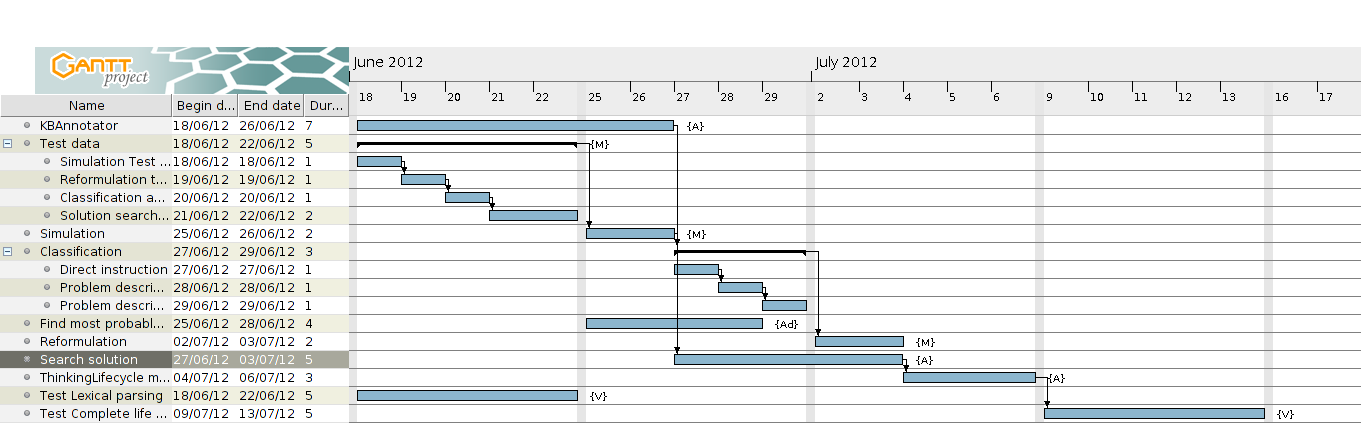
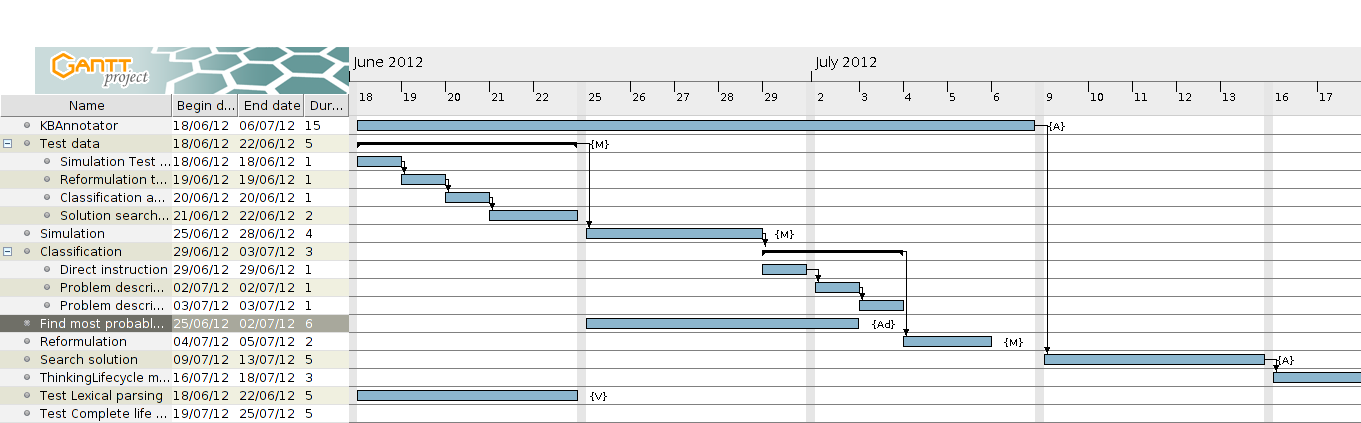
TU-69 - Create ProblemDescriptionWithDesiredStateAnalyser Coded and tested.

diff --git a/doc/gantt/2-tasks.html b/doc/gantt/2-tasks.html
@@ -164,11 +164,11 @@ h5.header {
 </div>
 </td><td valign="top" class="cell">
 <div style="margin:0; padding:0; padding-left:0.5em">
-<div style="margin: 0; padding: 0;">27/06/12</div>
+<div style="margin: 0; padding: 0;">07/07/12</div>
 </div>
 </td><td valign="top" class="cell">
 <div style="margin:0; padding:0; padding-left:0.5em">
-<div style="margin: 0; padding: 0;">7</div>
+<div style="margin: 0; padding: 0;">15</div>
 </div>
 </td><td valign="top" class="cell">A</td>
 </tr>
@@ -278,11 +278,11 @@ h5.header {
 </div>
 </td><td valign="top" class="cell">
 <div style="margin:0; padding:0; padding-left:0.5em">
-<div style="margin: 0; padding: 0;">27/06/12</div>
+<div style="margin: 0; padding: 0;">29/06/12</div>
 </div>
 </td><td valign="top" class="cell">
 <div style="margin:0; padding:0; padding-left:0.5em">
-<div style="margin: 0; padding: 0;">2</div>
+<div style="margin: 0; padding: 0;">4</div>
 </div>
 </td><td valign="top" class="cell">M</td>
 </tr>
@@ -293,11 +293,11 @@ h5.header {
 </div>
 </td><td valign="top" class="cell">
 <div style="margin:0; padding:0; padding-left:0.5em">
-<div style="margin: 0; padding: 0;">27/06/12</div>
+<div style="margin: 0; padding: 0;">29/06/12</div>
 </div>
 </td><td valign="top" class="cell">
 <div style="margin:0; padding:0; padding-left:0.5em">
-<div style="margin: 0; padding: 0;">30/06/12</div>
+<div style="margin: 0; padding: 0;">04/07/12</div>
 </div>
 </td><td valign="top" class="cell">
 <div style="margin:0; padding:0; padding-left:0.5em">
@@ -312,11 +312,11 @@ h5.header {
 </div>
 </td><td valign="top" class="cell">
 <div style="margin:0; padding:0; padding-left:0.5em">
-<div style="margin: 0; padding: 0;">27/06/12</div>
+<div style="margin: 0; padding: 0;">29/06/12</div>
 </div>
 </td><td valign="top" class="cell">
 <div style="margin:0; padding:0; padding-left:0.5em">
-<div style="margin: 0; padding: 0;">28/06/12</div>
+<div style="margin: 0; padding: 0;">30/06/12</div>
 </div>
 </td><td valign="top" class="cell">
 <div style="margin:0; padding:0; padding-left:0.5em">
@@ -331,11 +331,11 @@ h5.header {
 </div>
 </td><td valign="top" class="cell">
 <div style="margin:0; padding:0; padding-left:0.5em">
-<div style="margin: 0; padding: 0;">28/06/12</div>
+<div style="margin: 0; padding: 0;">02/07/12</div>
 </div>
 </td><td valign="top" class="cell">
 <div style="margin:0; padding:0; padding-left:0.5em">
-<div style="margin: 0; padding: 0;">29/06/12</div>
+<div style="margin: 0; padding: 0;">03/07/12</div>
 </div>
 </td><td valign="top" class="cell">
 <div style="margin:0; padding:0; padding-left:0.5em">
@@ -350,11 +350,11 @@ h5.header {
 </div>
 </td><td valign="top" class="cell">
 <div style="margin:0; padding:0; padding-left:0.5em">
-<div style="margin: 0; padding: 0;">29/06/12</div>
+<div style="margin: 0; padding: 0;">03/07/12</div>
 </div>
 </td><td valign="top" class="cell">
 <div style="margin:0; padding:0; padding-left:0.5em">
-<div style="margin: 0; padding: 0;">30/06/12</div>
+<div style="margin: 0; padding: 0;">04/07/12</div>
 </div>
 </td><td valign="top" class="cell">
 <div style="margin:0; padding:0; padding-left:0.5em">
@@ -373,11 +373,11 @@ h5.header {
 </div>
 </td><td valign="top" class="cell">
 <div style="margin:0; padding:0; padding-left:0.5em">
-<div style="margin: 0; padding: 0;">29/06/12</div>
+<div style="margin: 0; padding: 0;">03/07/12</div>
 </div>
 </td><td valign="top" class="cell">
 <div style="margin:0; padding:0; padding-left:0.5em">
-<div style="margin: 0; padding: 0;">4</div>
+<div style="margin: 0; padding: 0;">6</div>
 </div>
 </td><td valign="top" class="cell">Ad</td>
 </tr>
@@ -388,11 +388,11 @@ h5.header {
 </div>
 </td><td valign="top" class="cell">
 <div style="margin:0; padding:0; padding-left:0.5em">
-<div style="margin: 0; padding: 0;">02/07/12</div>
+<div style="margin: 0; padding: 0;">04/07/12</div>
 </div>
 </td><td valign="top" class="cell">
 <div style="margin:0; padding:0; padding-left:0.5em">
-<div style="margin: 0; padding: 0;">04/07/12</div>
+<div style="margin: 0; padding: 0;">06/07/12</div>
 </div>
 </td><td valign="top" class="cell">
 <div style="margin:0; padding:0; padding-left:0.5em">
@@ -407,11 +407,11 @@ h5.header {
 </div>
 </td><td valign="top" class="cell">
 <div style="margin:0; padding:0; padding-left:0.5em">
-<div style="margin: 0; padding: 0;">27/06/12</div>
+<div style="margin: 0; padding: 0;">09/07/12</div>
 </div>
 </td><td valign="top" class="cell">
 <div style="margin:0; padding:0; padding-left:0.5em">
-<div style="margin: 0; padding: 0;">04/07/12</div>
+<div style="margin: 0; padding: 0;">14/07/12</div>
 </div>
 </td><td valign="top" class="cell">
 <div style="margin:0; padding:0; padding-left:0.5em">
@@ -426,11 +426,11 @@ h5.header {
 </div>
 </td><td valign="top" class="cell">
 <div style="margin:0; padding:0; padding-left:0.5em">
-<div style="margin: 0; padding: 0;">04/07/12</div>
+<div style="margin: 0; padding: 0;">16/07/12</div>
 </div>
 </td><td valign="top" class="cell">
 <div style="margin:0; padding:0; padding-left:0.5em">
-<div style="margin: 0; padding: 0;">07/07/12</div>
+<div style="margin: 0; padding: 0;">19/07/12</div>
 </div>
 </td><td valign="top" class="cell">
 <div style="margin:0; padding:0; padding-left:0.5em">
@@ -464,11 +464,11 @@ h5.header {
 </div>
 </td><td valign="top" class="cell">
 <div style="margin:0; padding:0; padding-left:0.5em">
-<div style="margin: 0; padding: 0;">09/07/12</div>
+<div style="margin: 0; padding: 0;">19/07/12</div>
 </div>
 </td><td valign="top" class="cell">
 <div style="margin:0; padding:0; padding-left:0.5em">
-<div style="margin: 0; padding: 0;">14/07/12</div>
+<div style="margin: 0; padding: 0;">26/07/12</div>
 </div>
 </td><td valign="top" class="cell">
 <div style="margin:0; padding:0; padding-left:0.5em">
@@ -483,7 +483,7 @@ h5.header {
 <tr>
 <td bgcolor="#6d9ec6" width="50%"><font color="#FFFFFF"><b>Ganttproject (2.0.10)</b></font></td><td bgcolor="#6d9ec6" width="50%" align="right"><b><a href="http://ganttproject.biz">ganttproject.biz</a></b>
 <br>
-<b>25/06/12 - 00:00:00</b></td>
+<b>02/07/12 - 00:00:00</b></td>
 </tr>
 </table>
 </body>

diff --git a/doc/gantt/2-chart.html b/doc/gantt/2-chart.html
@@ -122,7 +122,7 @@ div.page_links {
 <tr>
 <td bgcolor="#6d9ec6" width="50%"><font color="#FFFFFF"><b>Ganttproject (2.0.10)</b></font></td><td bgcolor="#6d9ec6" width="50%" align="right"><b><a href="http://ganttproject.biz">ganttproject.biz</a></b>
 <br>
-<b>25/06/12 - 00:00:00</b></td>
+<b>02/07/12 - 00:00:00</b></td>
 </tr>
 </table>
 </body>

diff --git a/doc/gantt/2.html b/doc/gantt/2.html
@@ -152,7 +152,7 @@ div.page_links {
 <tr>
 <td bgcolor="#6d9ec6" width="50%"><font color="#FFFFFF"><b>Ganttproject (2.0.10)</b></font></td><td bgcolor="#6d9ec6" width="50%" align="right"><b><a href="http://ganttproject.biz">ganttproject.biz</a></b>
 <br>
-<b>25/06/12 - 00:00:00</b></td>
+<b>02/07/12 - 00:00:00</b></td>
 </tr>
 </table>
 </body>

diff --git a/doc/gantt/2-resources.html b/doc/gantt/2-resources.html
@@ -169,7 +169,7 @@ h5.header {
 <tr>
 <td bgcolor="#6d9ec6" width="50%"><font color="#FFFFFF"><b>Ganttproject (2.0.10)</b></font></td><td bgcolor="#6d9ec6" width="50%" align="right"><b><a href="http://ganttproject.biz">ganttproject.biz</a></b>
 <br>
-<b>25/06/12 - 00:00:00</b></td>
+<b>02/07/12 - 00:00:00</b></td>
 </tr>
 </table>
 </body>
